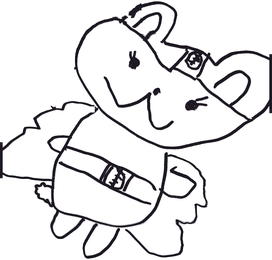
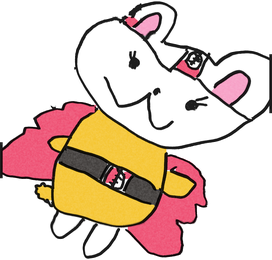
Color the hero sprite with the chosen crayon palette (pattern 3)
White face and ears with pink inner ears, yellow body and arms, red
cape and headband badge, black belt, keeping the original line art on
top with a light crayon texture.

Claude-Session: https://claude.ai/code/session_011sG1v9cMvpSdgJgeMH2jV7

diff --git a/README.md b/README.md
@@ -26,5 +26,5 @@
 ボタン操作はありません。動くだけで遊べます。
 
 ### 主人公の画像
-`game/fuwafuwa.png` は、元の手描きの絵から主人公だけを切り抜いた画像です。
+`game/fuwafuwa.png` は、元の手描きの絵から主人公だけを切り抜き、子どもが選んだ4色（きいろ・くろ・ぴんく・あか）のクレヨン調で色をつけた画像です（顔と耳は白、体はきいろ、マントはあか、ベルトはくろ、耳の中はぴんく）。
 別の絵に差し替えるときは、同じ名前の背景透過PNGを置いてください。
